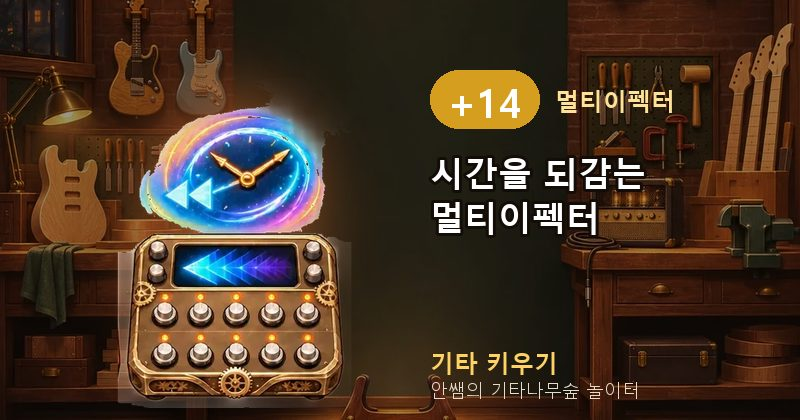
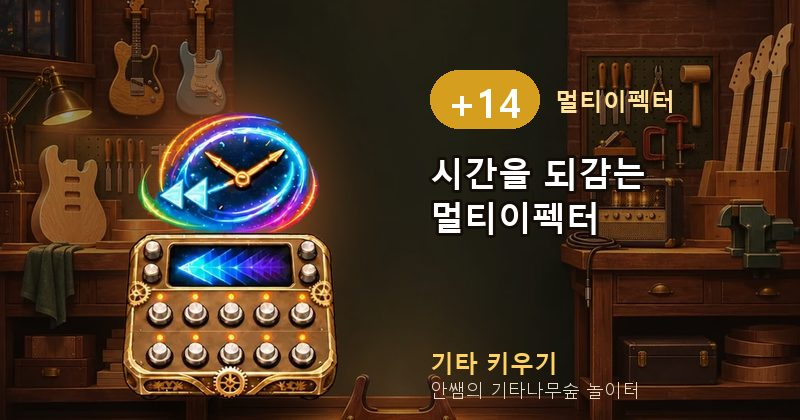
기타 키우기 목업: 멀티이펙터 +8·+10~19 그림을 안개 없는 판으로 바꿈(공유 썸네일도)

Changed region(s): [[0.125, 0.2476, 0.4375, 0.9905]]

diff --git a/play/guitar-mockup.html b/play/guitar-mockup.html
@@ -612,6 +612,10 @@ const floorRoom = (fl, g) => fl.filter(x => x.f === g.f).length < FLOOR_EACH;
 // 바닥에 놓은 앰프·멀티의 능력치 (2026-11-12 사용자: 앰프는 부서짐↓, 이펙터는 줄 끊김↓, 단계별로. 3개씩 놓을 수 있으니 너무 크지 않게)
 //   한 대에 단계 × 0.1%p (+10 = 1%p, +20 = 2%p), 바닥의 같은 종류끼리 더한다(3대 모두 +20이면 6%p).
 //   앰프가 줄인 부서짐은 줄 끊김으로, 멀티가 줄인 줄 끊김은 성공으로 간다. 작업대에서 강화 중인 앰프·멀티는 안 친다
+// 그림을 같은 이름으로 다시 뽑아 넣으면 브라우저가 예전 그림을 보여 줄 수 있어서 ?v= 를 붙인다 (그림 접두어 → { 단계: 판 })
+//   2026-11-12 멀티 +8·+10~19 안개 없는 판으로 바꿈
+const ART_V = { fx: { 8: 2, 10: 2, 11: 2, 12: 2, 13: 2, 14: 2, 15: 2, 16: 2, 17: 2, 18: 2, 19: 2 } };
+const artV = (pre, n) => { const v = ART_V[pre] && ART_V[pre][n]; return v ? `?v=${v}` : ''; };
 const GEAR_PER = 0.1, r1 = x => Math.round(x * 10) / 10;
 // '유지' 이름: 기타는 줄 끊김, 멀티이펙터는 버튼 빠짐 (2026-11-12 사용자: 이펙터는 줄이 없으니 버튼이 빠졌다가 다시 끼움)
 const keepWord = g => g && g.f === 'multi' ? '버튼 빠짐' : '줄 끊김';
@@ -1037,7 +1041,7 @@ function art(lv, f) {
         a = ART[key] = { img: new Image(), ok: false, bad: false, sq: !!F.sq };
         a.img.onload = () => { a.ok = true; paintAll(document); };
         a.img.onerror = () => { a.bad = true; paintAll(document); };
-        a.img.src = `../images/play/gk/${F.art}_${String(n).padStart(2, '0')}.webp`;
+        a.img.src = `../images/play/gk/${F.art}_${String(n).padStart(2, '0')}.webp${artV(F.art, n)}`;
     }
     return a.bad ? null : a;
 }
@@ -1418,7 +1422,7 @@ function dexDot() {
     if (S.dexNew && tab !== 'dex' && !dot) b.insertAdjacentHTML('beforeend', '<span class="dot" title="도감에 새로 들어온 기타"></span>');
     if ((!S.dexNew || tab === 'dex') && dot) dot.remove();
 }
-const artSrc = (f, lv) => { const F = FAMS[f] || FAMS.strat, n = F.extra && F.extra.includes(lv) ? lv : Math.min(lv, F.artMax); return `../images/play/gk/${F.art}_${String(n).padStart(2, '0')}.webp`; };
+const artSrc = (f, lv) => { const F = FAMS[f] || FAMS.strat, n = F.extra && F.extra.includes(lv) ? lv : Math.min(lv, F.artMax); return `../images/play/gk/${F.art}_${String(n).padStart(2, '0')}.webp${artV(F.art, n)}`; };
 function renderDex() {
     S.dexNew = false; save(); dexDot();
     const N = MAX + 1, cnt = f => Array.from({ length: N }, (_, i) => dexHas(f, i)).filter(Boolean).length;
